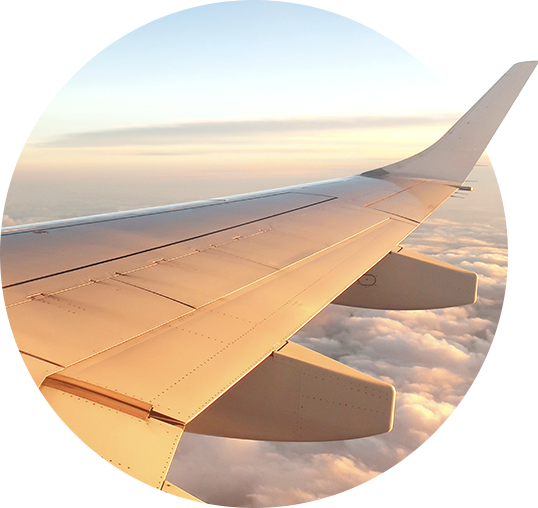
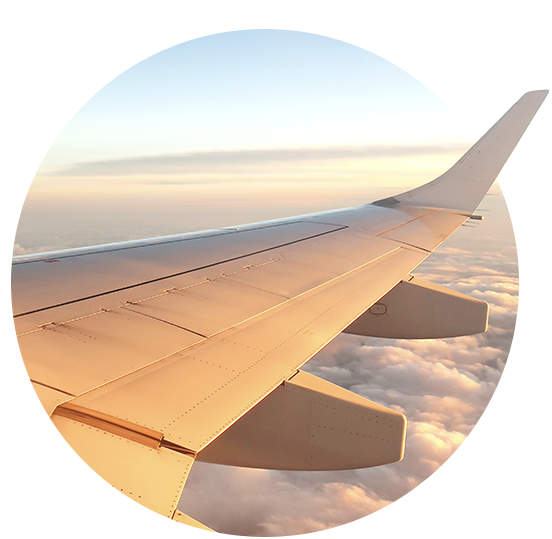
Design: [#195] 메인페이지 수정 및 애니메이션 추가

diff --git a/flog/src/components/units/main/Main.presenter.tsx b/flog/src/components/units/main/Main.presenter.tsx
@@ -11,24 +11,31 @@ export default function MainUI(props: IMainUIProps) {
     <Main.Container>
       <Main.MainImg>
         <Slider {...props.settings}>
-          {[1, 2, 3].map((el) => (
+          {[1, 2, 3].map((el, index) => (
             <Main.BackImgBox key={el} bgImg={el}>
               <Main.SliderWrapper>
                 <Main.TextGroup>
                   <div>
-                    <Main.TitleSub>
+                    <Main.TitleSub
+                      className={index === props.activeSlide ? "isActive" : ""}
+                    >
                       {el === 1
                         ? "나만의 여행 가이드북을 만들다."
                         : el === 2
                         ? "우물 밖이 궁금한 여행자 모여라"
                         : "지금 회원가입하면"}
                     </Main.TitleSub>
-                    <Main.TitleMain>
+                    <Main.TitleMain
+                      className={index === props.activeSlide ? "isActive" : ""}
+                    >
                       {el === 3 ? "5000 Point" : "Flog"}
                     </Main.TitleMain>
                   </div>
 
-                  <Main.Description bgImg={el}>
+                  <Main.Description
+                    bgImg={el}
+                    className={index === props.activeSlide ? "isActive" : ""}
+                  >
                     {el === 3
                       ? "포인트로 배가 되는"
                       : "여행일정, 가계부, 다이어리 등  "}{" "}
@@ -40,7 +47,10 @@ export default function MainUI(props: IMainUIProps) {
                     {el === 3 ? <span> &nbsp;</span> : "기록해 보세요!"}
                   </Main.Description>
                 </Main.TextGroup>
-                <Main.ImageBox bgImg={el} />
+                <Main.ImageBox
+                  bgImg={el}
+                  className={index === props.activeSlide ? "isActive" : ""}
+                />
               </Main.SliderWrapper>
             </Main.BackImgBox>
           ))}
@@ -51,8 +61,12 @@ export default function MainUI(props: IMainUIProps) {
         <h4>Flog 둘러보기</h4>
         <Main.LookAround>
           <Main.LookAroundBox>
-            <img src="/img/landing-lookAround.png" />
-            <img src="/img/landing-lookAround-bg.png" />
+            <Main.BoxBgImage
+              img={"/img/landing-lookAround.png"}
+              className="bgImage"
+            ></Main.BoxBgImage>
+            {/* <img src="/img/landing-lookAround.png" />
+            <img src="/img/landing-lookAround-bg.png" /> */}
             <Main.Text>
               <Main.BoxDescription>
                 여행을 하며 추억을 담는 가이드북
@@ -69,8 +83,12 @@ export default function MainUI(props: IMainUIProps) {
             </Main.Text>
           </Main.LookAroundBox>
           <Main.LookAroundBox>
-            <img src="/img/landing-lookAround2.png" />
-            <img src="/img/landing-lookAround-bg.png" />
+            <Main.BoxBgImage
+              img={"/img/landing-lookAround2.png"}
+              className="bgImage"
+            ></Main.BoxBgImage>
+            {/* <img src="/img/landing-lookAround2.png" />
+            <img src="/img/landing-lookAround-bg.png" /> */}
             <Main.Text>
               <Main.BoxDescription>
                 내 경험을 다른 이들에게 들려주는 공유 공간

diff --git a/flog/src/components/units/main/Main.styles.ts b/flog/src/components/units/main/Main.styles.ts
@@ -67,14 +67,8 @@ export const BackImgBox = styled.div`
 export const ImageBox = styled.div`
   position: relative;
   overflow: hidden;
-
-  width: ${(props: IBgImgProps) =>
-    props.bgImg === 1
-      ? "calc(490% * 100 / 1200)"
-      : props.bgImg === 2
-      ? "calc(500% * 100 / 1200)"
-      : "calc(510% * 100 / 1200)"};
-  aspect-ratio: 1/1;
+  width: 552px;
+  height: 539px;
   margin-left: auto;
   background-repeat: no-repeat;
   background-position: center;
@@ -118,6 +112,13 @@ export const ImageBox = styled.div`
     color: #fff;
     display: block;
   }
+  filter: blur(2px);
+  opacity: 0;
+  transition: all 4s ease;
+  &.isActive {
+    filter: blur(0);
+    opacity: 1;
+  }
 `;
 
 export const TextGroup = styled.div`
@@ -130,11 +131,26 @@ export const TitleSub = styled.div`
   font-weight: 500;
   word-break: keep-all;
   margin-bottom: 2px;
+  transform: translateY(80px);
+  opacity: 0;
+  transition: all 1.5s ease;
+  &.isActive {
+    transform: translateY(0);
+    opacity: 1;
+  }
 `;
 export const TitleMain = styled.div`
   font-size: 80px;
   font-family: "Montserrat Alternates";
   font-weight: 700;
+  transform: translateY(80px);
+  opacity: 0;
+  transition: all 1.5s ease;
+  transition-delay: 0.5s;
+  &.isActive {
+    transform: translateY(0);
+    opacity: 1;
+  }
 `;
 export const Description = styled.div`
   font-weight: 500;
@@ -144,6 +160,14 @@ export const Description = styled.div`
   line-height: 1.6em;
   color: #fff;
   opacity: 0.6;
+  transform: translateY(80px);
+  opacity: 0;
+  transition: all 1.5s ease;
+  transition-delay: 1s;
+  &.isActive {
+    transform: translateY(0);
+    opacity: 1;
+  }
 `;
 
 export const LookAround = styled.div`
@@ -157,15 +181,13 @@ export const LookAroundBox = styled.div`
   aspect-ratio: 61 / 50;
   margin-top: 24px;
   border-radius: 20px;
+  overflow: hidden;
   position: relative;
   color: #fff;
-  transition: 0.3s;
-  :hover {
-    transform: scale(1.03);
-  }
-  img {
-    position: absolute;
-    max-width: 100%;
+  cursor: pointer;
+
+  &:hover .bgImage {
+    transform: scale(1.1);
   }
 `;
 
@@ -192,5 +214,23 @@ export const BoxBtn = styled.button`
   :hover {
     background-color: #58bd97;
     color: #fff;
+  }
+`;
+
+export const BoxBgImage = styled.div`
+  width: 100%;
+  height: 100%;
+  background: ${(props) => `url(${props.img}) no-repeat center`};
+  background-size: cover;
+  position: absolute;
+  top: 0;
+  left: 0;
+  transition: all 0.6s ease;
+  :after {
+    content: "";
+    display: block;
+    width: 100%;
+    height: 100%;
+    background: rgba(0, 0, 0, 0.6);
   }
 `;

diff --git a/flog/src/components/units/main/Main.container.tsx b/flog/src/components/units/main/Main.container.tsx
@@ -1,20 +1,25 @@
 import MainUI from "./Main.presenter";
 import "slick-carousel/slick/slick-theme.css";
 import "slick-carousel/slick/slick.css";
+import { useState } from "react";
 
 export default function Main() {
+  const [activeSlide, setActiveSlide] = useState(0);
+
   const settings = {
     dots: true,
     infinite: true,
     speed: 700,
     slidesToShow: 1,
     slidesToScroll: 1,
-    autoplaySpeed: 3000,
+    autoplaySpeed: 4000,
     arrows: false,
     autoplay: true,
     cssEase: "linear",
     fade: true,
+    beforeChange: (current, next) => setActiveSlide(next),
+    afterChange: (current) => setActiveSlide(current),
   };
 
-  return <MainUI settings={settings} />;
+  return <MainUI settings={settings} activeSlide={activeSlide} />;
 }
